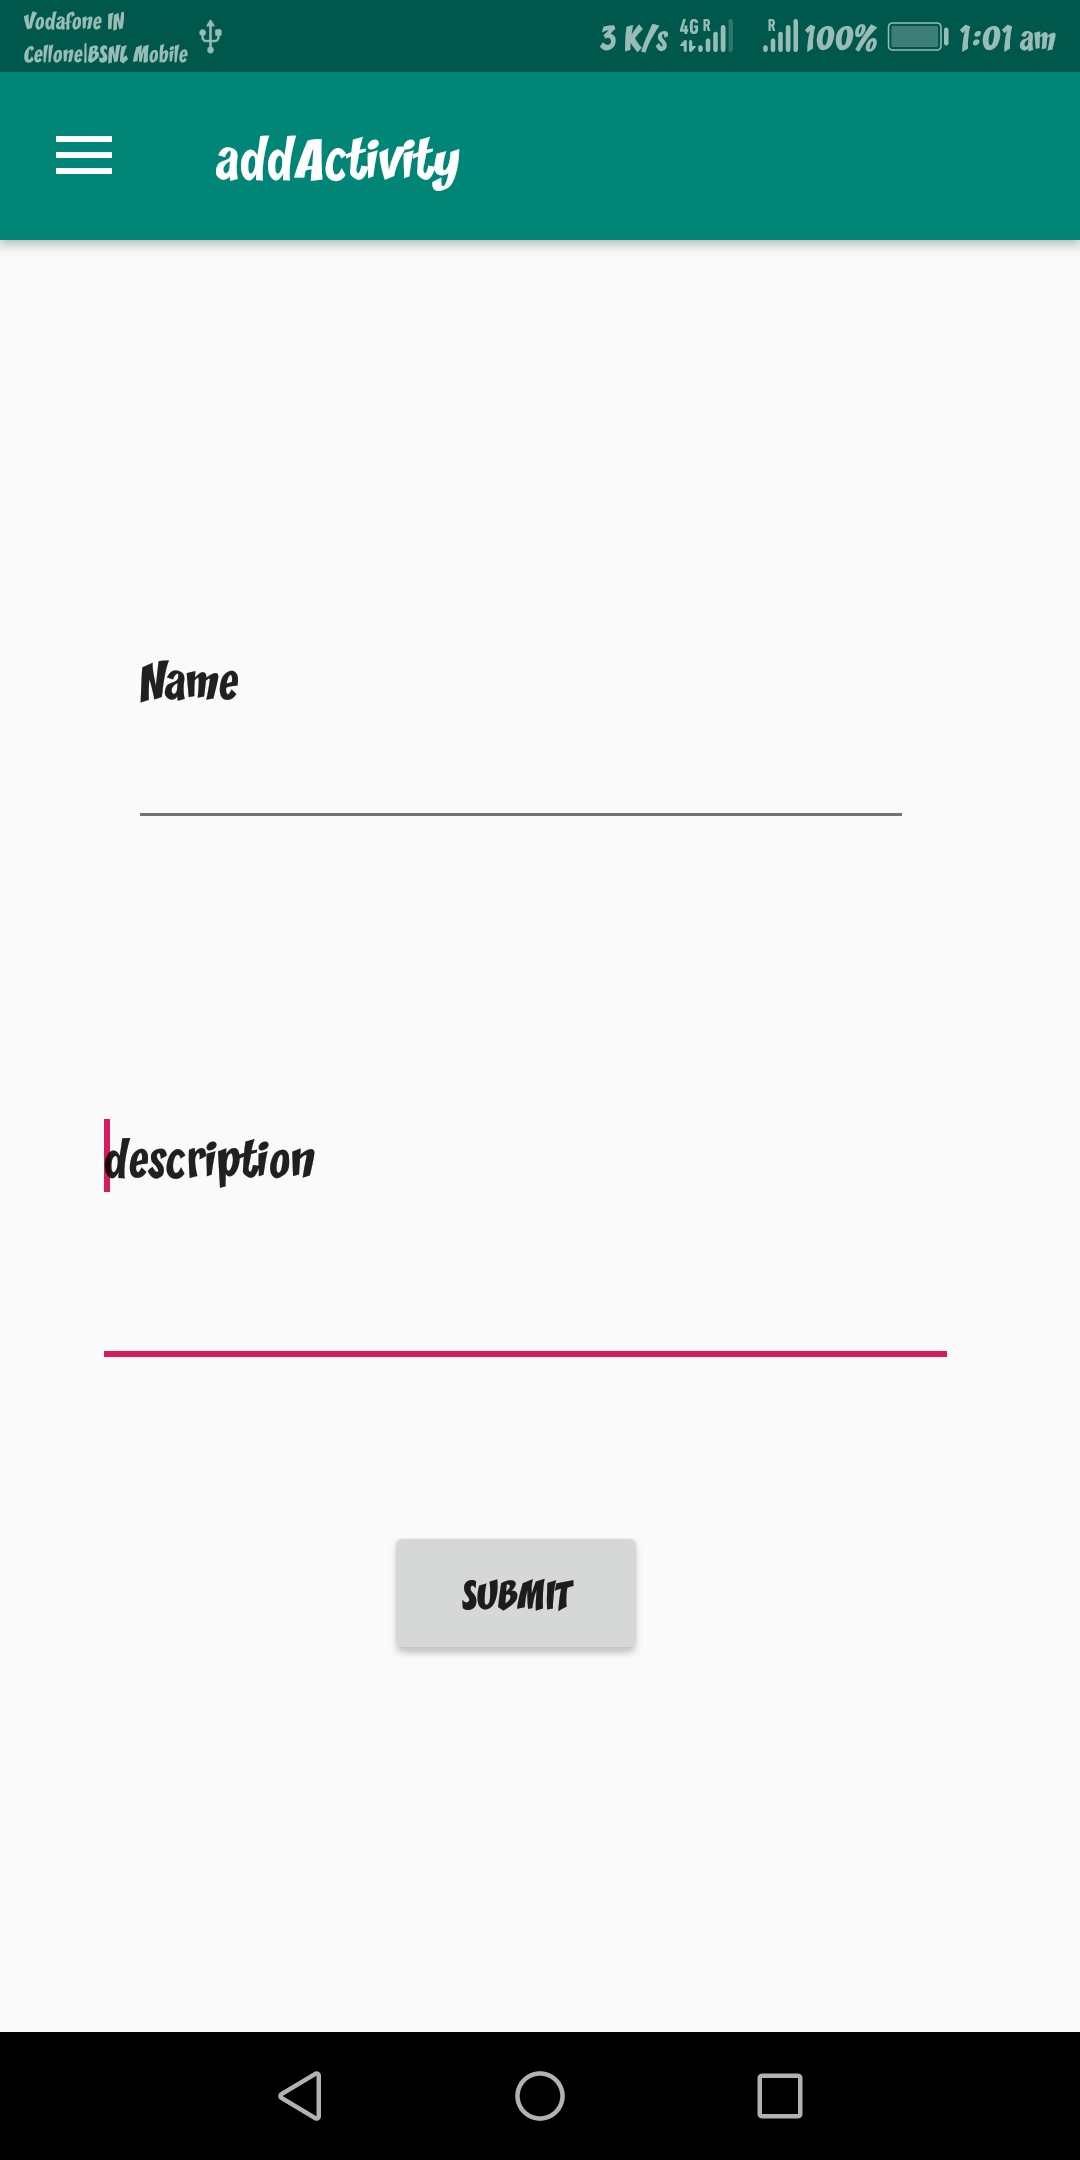
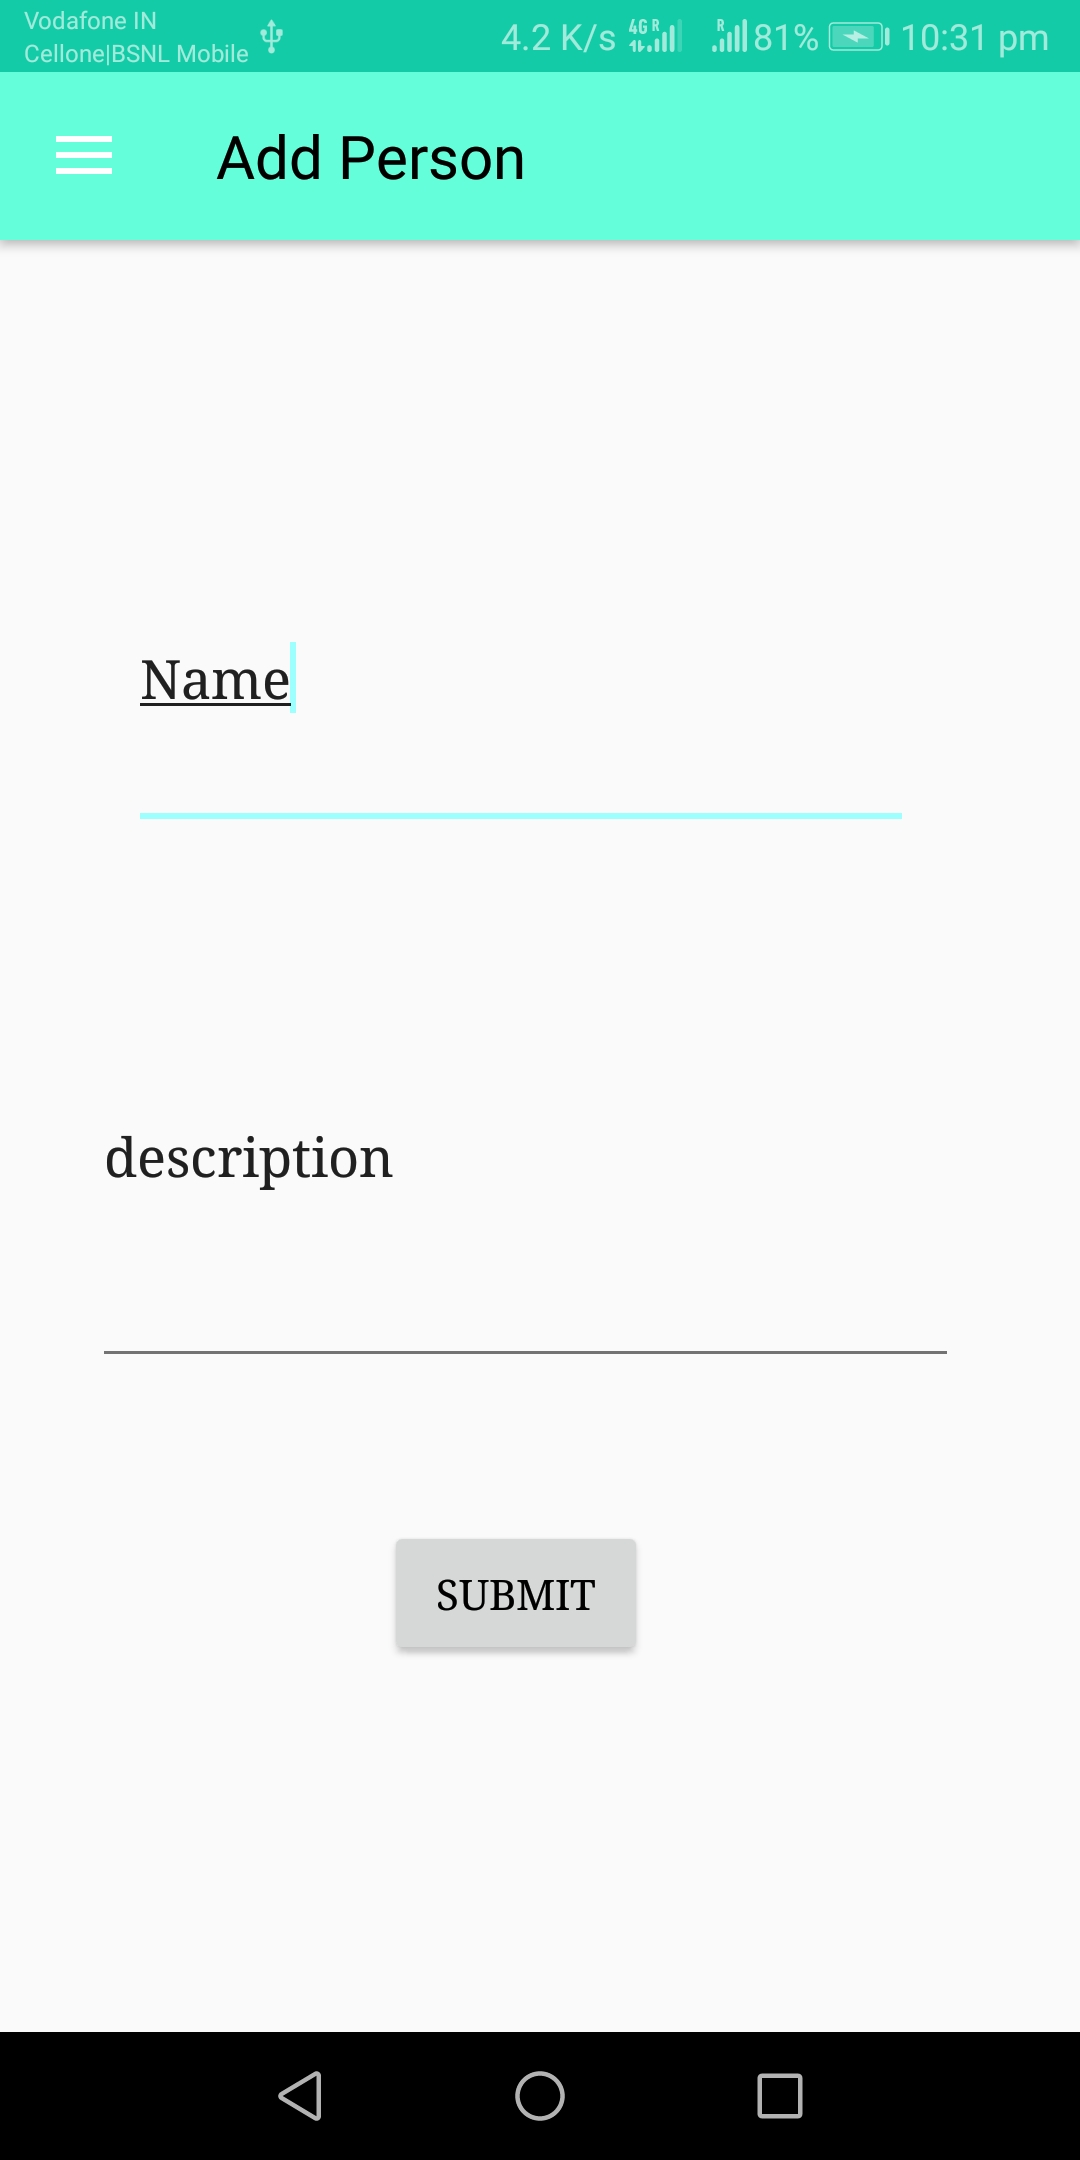
Assignment completed

diff --git a/app/src/main/java/com/example/assignment2/TypefaceUtil.java b/app/src/main/java/com/example/assignment2/TypefaceUtil.java
@@ -1,0 +1,49 @@
+package com.example.assignment2;
+
+import android.content.Context;
+import android.graphics.Typeface;
+import android.os.Build;
+import android.util.Log;
+
+import java.lang.reflect.Field;
+import java.util.HashMap;
+import java.util.Map;
+
+public class TypefaceUtil {
+
+    /**
+     * Using reflection to override default typeface
+     * NOTICE: DO NOT FORGET TO SET TYPEFACE FOR APP THEME AS DEFAULT TYPEFACE WHICH WILL BE OVERRIDDEN
+     *
+     * @param context                    to work with assets
+     * @param defaultFontNameToOverride  for example "monospace"
+     * @param customFontFileNameInAssets file name of the font from assets
+     */
+    public static void overrideFont(Context context, String defaultFontNameToOverride, String customFontFileNameInAssets) {
+
+        final Typeface customFontTypeface = Typeface.createFromAsset(context.getAssets(), customFontFileNameInAssets);
+
+        if (Build.VERSION.SDK_INT >= Build.VERSION_CODES.LOLLIPOP) {
+            Map<String, Typeface> newMap = new HashMap<String, Typeface>();
+            newMap.put("serif", customFontTypeface);
+            try {
+                final Field staticField = Typeface.class
+                        .getDeclaredField("sSystemFontMap");
+                staticField.setAccessible(true);
+                staticField.set(null, newMap);
+            } catch (NoSuchFieldException e) {
+                e.printStackTrace();
+            } catch (IllegalAccessException e) {
+                e.printStackTrace();
+            }
+        } else {
+            try {
+                final Field defaultFontTypefaceField = Typeface.class.getDeclaredField(defaultFontNameToOverride);
+                defaultFontTypefaceField.setAccessible(true);
+                defaultFontTypefaceField.set(null, customFontTypeface);
+            } catch (Exception e) {
+                Log.e(TypefaceUtil.class.getSimpleName(), "Can not set custom font " + customFontFileNameInAssets + " instead of " + defaultFontNameToOverride);
+            }
+        }
+    }
+}

diff --git a/app/src/main/java/com/example/assignment2/addActivity.java b/app/src/main/java/com/example/assignment2/addActivity.java
@@ -53,8 +53,8 @@ public class addActivity extends AppCompatActivity
             @SuppressLint("WrongViewCast")
             @Override
             public void onClick(View v) {
-                name = (EditText)findViewById(R.id.name) ;
-                description = (EditText)findViewById(R.id.description) ;
+                name = findViewById(R.id.name);
+                description = findViewById(R.id.description);
                 SharedPreferences.Editor editor = sharedpreferences.edit() ;
                 // sharedpreferences.edit().clear().commit() ;
                 int counter = sharedpreferences.getInt("counter", 0) ;

diff --git a/app/src/main/java/com/example/assignment2/MainActivity.java b/app/src/main/java/com/example/assignment2/MainActivity.java
@@ -36,6 +36,10 @@ public class MainActivity extends AppCompatActivity
     @Override
     protected void onCreate(Bundle savedInstanceState) {
         super.onCreate(savedInstanceState);
+        //Typeface tf = Typeface.createFromAsset(getAssets(), "fonts/medium.ttf") ;
+
+        TypefaceUtil.overrideFont(getApplicationContext(), "serif", "fonts/medium.ttf");
+
         setContentView(R.layout.activity_main);
         Toolbar toolbar = findViewById(R.id.toolbar);
         setSupportActionBar(toolbar);
